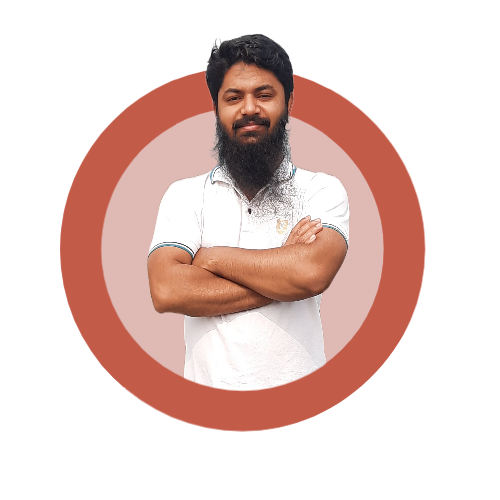
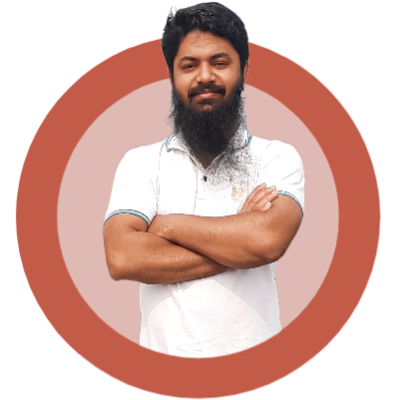
portfolio completed

diff --git a/index.html b/index.html
@@ -12,19 +12,49 @@
 </head>
 <body>
 
-    <section class="top-banner ">
+    <section class="top-banner">
         <div class="half-width">
-            <h1>Welcome To <br><span style="color: tomato;">M. Sabbir Ahmed's</span> Portfolio</h1>
+            <h1><br>Welcome To <br><span style="color: tomato;">M. Sabbir Ahmed's</span> Portfolio<br><br></h1>
             <h3>World-class professional web developer</h3>
             <p>Lorem ipsum dolor sit amet consectetur adipisicing elit. Quidem doloribus, porro aspernatur nihil suscipit incidunt? Eum explicabo quae modi ducimus quibusdam atque reprehenderit hic! Quos molestiae repudiandae sint doloribus possimus. </p>
             <a class="link-button" href="https://www.linkedin.com/in/msahmedme/" target="_blank">HIRE ME</a>
         </div>
         
         <div class="half-width">
-            <img class= "img1" src="./images/final_imag_1.png" alt="msahmedme">
+            <img src="./images/final_imag_1_2.png" alt="msahmedme">
         </div>
     </section>
 
+    <section class="bottom-banner">
+        <div class="half-width">
+            <img src="./images/final_imag_2_2.png" alt="msahmedme">
+        </div>
+        <div class="half-width">
+            <h2>Dream Big</h2>
+            <h3>Become World's No. 1 Developer</h3>
+            <p>Lorem ipsum dolor sit amet consectetur adipisicing elit. Aut, commodi, veritatis tempora dolorum deserunt velit quas veniam eaque laboriosam sint hic, aliquam quae. Quia provident maiores dolores. Ducimus eveniet non ex nobis perspiciatis odio delectus! Asperiores nam aliquid at nulla illum beatae esse voluptatibus similique. Reiciendis dolorum nemo distinctio. Provident. Aut, commodi, veritatis tempora dolorum deserunt velit quas veniam eaque laboriosam sint hic, aliquam quae. Quia provident maiores dolores. Ducimus eveniet non ex nobis perspiciatis odio delectus! Asperiores nam aliquid at nulla illum beatae esse voluptatibus similique. Reiciendis dolorum nemo distinctio. Provident</p>
+            <a class="download-resume-button" href="https://drive.google.com/file/d/1CI2g5fhCJj23vprCX9JxJ_Ba_5DfRIN9/view?usp=sharing" target="_blank">Download Resume</a>
+        </div>
+    </section>
+
+    <section class="experience-area" >
+        <h2 style="margin-left: 20px;padding-left:3px";">Experiences</h2>
+        <div class="half-width single-experience" id="full-stack">
+            <h2 class="experience-title">Full Stack Web Developer</h2>
+            <h3 class="orange-highlight">2021 - Present | Pro Level Web Dev</h3>
+            <hr style="width: 95%; margin-left: 0px;">
+            <p>Lorem, ipsum dolor sit amet consectetur adipisicing elit. Eaque laudantium, tenetur sequi debitis, aliquam, quasi impedit in itaque rem dolore necessitatibus et modi numquam quis voluptas temporibus beatae sit repellendus est quod unde? Error, esse.</p>
+        </div>
+        <div class="half-width single-experience" id="baby-web">
+            <h2 class="experience-title">Baby Web Developer</h2>
+            <h3 class="orange-highlight">2020-2021 | Programming Hero Larner</h3>
+            <hr style="width: 95%; margin-left: 0px;">
+            <p>Lorem ipsum dolor sit amet, consectetur adipisicing elit. Explicabo facilis voluptates sed vel omnis, quasi nobis sequi pariatur officiis! Beatae quibusdam molestias, minus aut labore quae hic excepturi veritatis vitae ipsum libero, illum recusandae autem quas neque officia omnis.</p>
+        </div>
+    </section>
+    <footer>
+        <p>© Mohammad Sabbir Ahmed, all rights reserved.</p>
+    </footer>
 </body>
 </html>
 

diff --git a/CSS/style.css b/CSS/style.css
@@ -8,34 +8,97 @@ h1{
     font-size: 40px;
 }
 
+p{
+    color: dimgray;
+}
+
 .half-width{
-    width: 46%;
+    width: 45%;
     float: left;
     margin-left: 2%;
     padding-left: 2%;
 }
 
 
-.half-width img{
+/* .half-width img{
     width: 100%;
-}
+} */
 
 .top-banner{
     background-image: url("./../images/top-banner.png");
     background-repeat: no-repeat;
+    /* padding-bottom: 0px; */
 }
 
 section{
-    height: 500px;
+    height: 550px;
     /* border: 1px solid red; */
 }
 
 .link-button{
     text-decoration: none;
-    background-color: orange;
+    background-image: linear-gradient(-55deg, lightSalmon, tomato);
     border-radius: 3px;
     padding: 5px 10px;
     color: white;
     font-weight: 700;
-    
+}
+
+.download-resume-button{
+    text-decoration: none;
+    background-image: linear-gradient(-55deg, rgb(219, 16, 111), rgb(207, 79, 139));
+    border-radius: 3px;
+    padding: 5px 10px;
+    color: white;
+    font-weight: 700;
+}
+
+img{
+    max-width: fit-content;
+    padding-top: 20px;
+}
+
+.bottom-banner{
+    background-image: url("./../images/dream-bg.png");
+    background-repeat: no-repeat;
+    background-position: right;
+    /* padding-top: 100px; */
+}
+
+.orange-highlight{
+    color: orange;
+}
+
+/* .experience-title{
+    text-decoration: underline;
+} */
+.single-experience{
+    box-shadow: 10px 10px 40px gray;
+    border-radius: 10px;
+    height: 70%;
+    background-color: white;
+}
+
+.experience-area{
+    background-image: url("./../images/exp-bg.png");
+    background-repeat: no-repeat;
+    background-position: left;
+    /* border: 2px solid red; */
+    height: 400px;
+}
+
+#full-stack{
+    border-left: 7px solid;
+    border-image: linear-gradient(180deg, rgb(250, 66, 34), rgb(250, 179, 166));
+    border-image-slice: 1;
+}
+
+#baby-web{
+    border-left: 5px solid;
+    border-image: linear-gradient(0deg, blue, cyan);
+    border-image-slice: 1;
+}
+
+footer{
+    text-align: center;
 }
